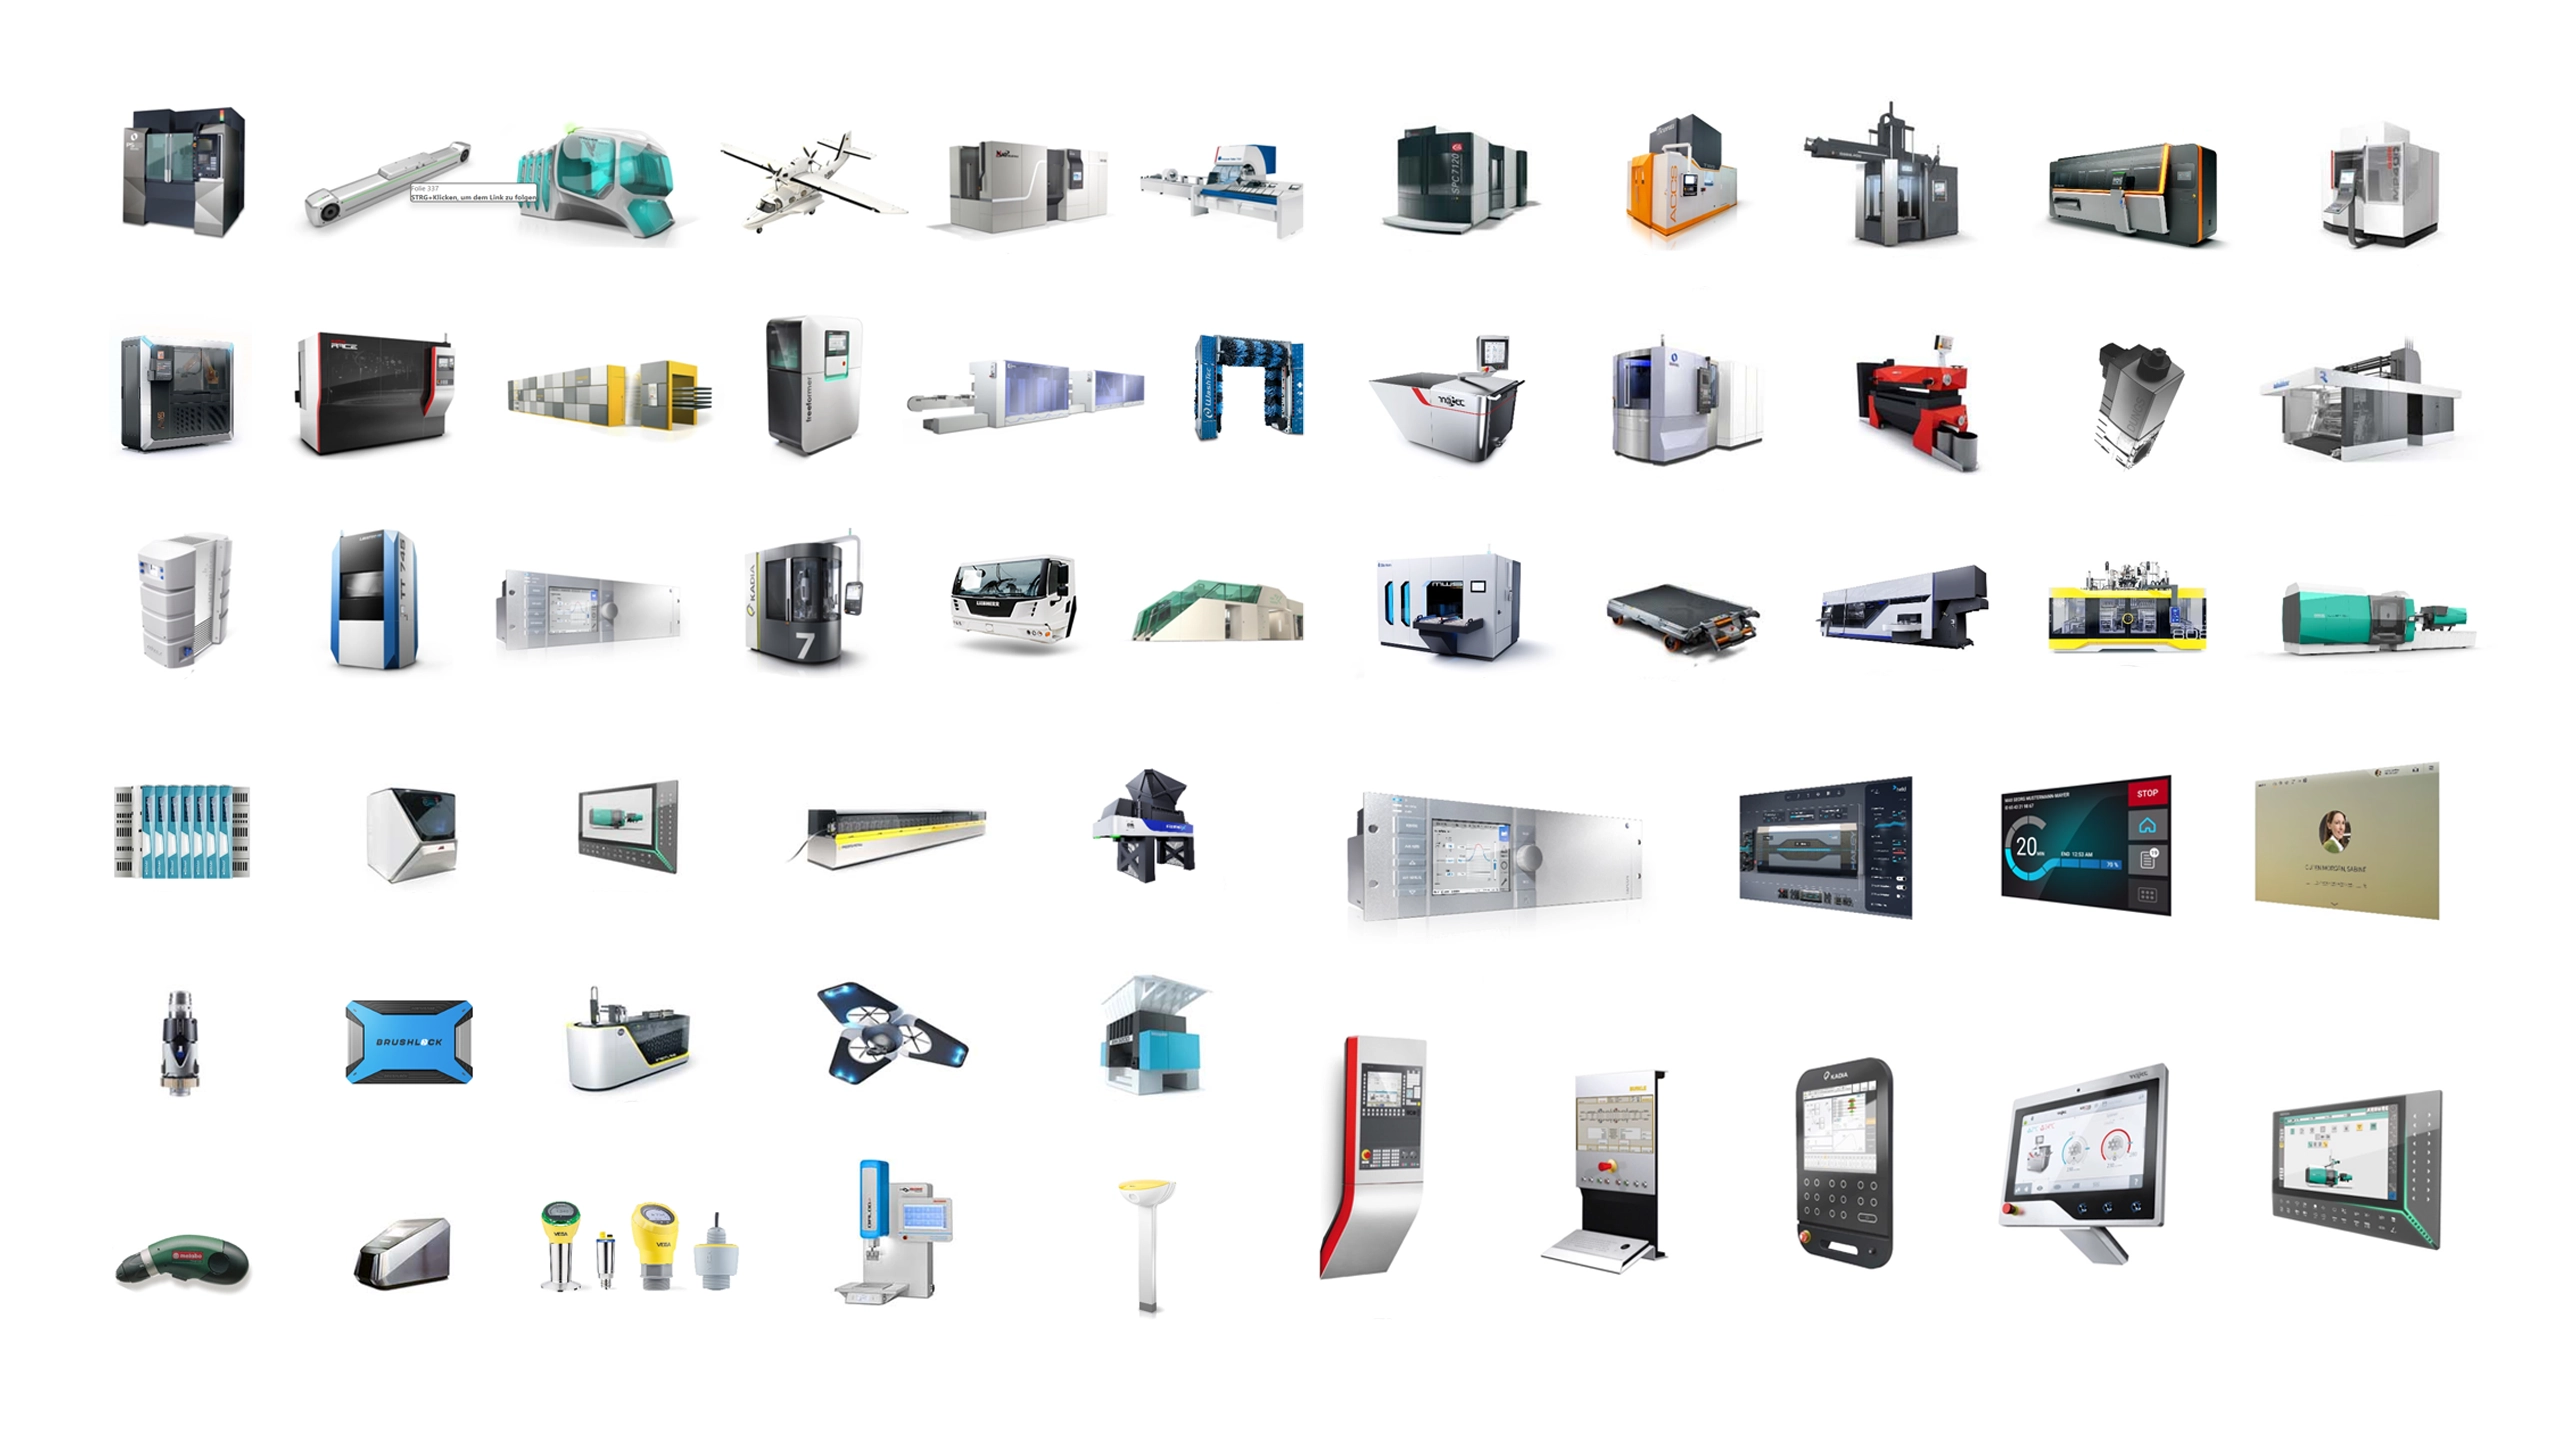
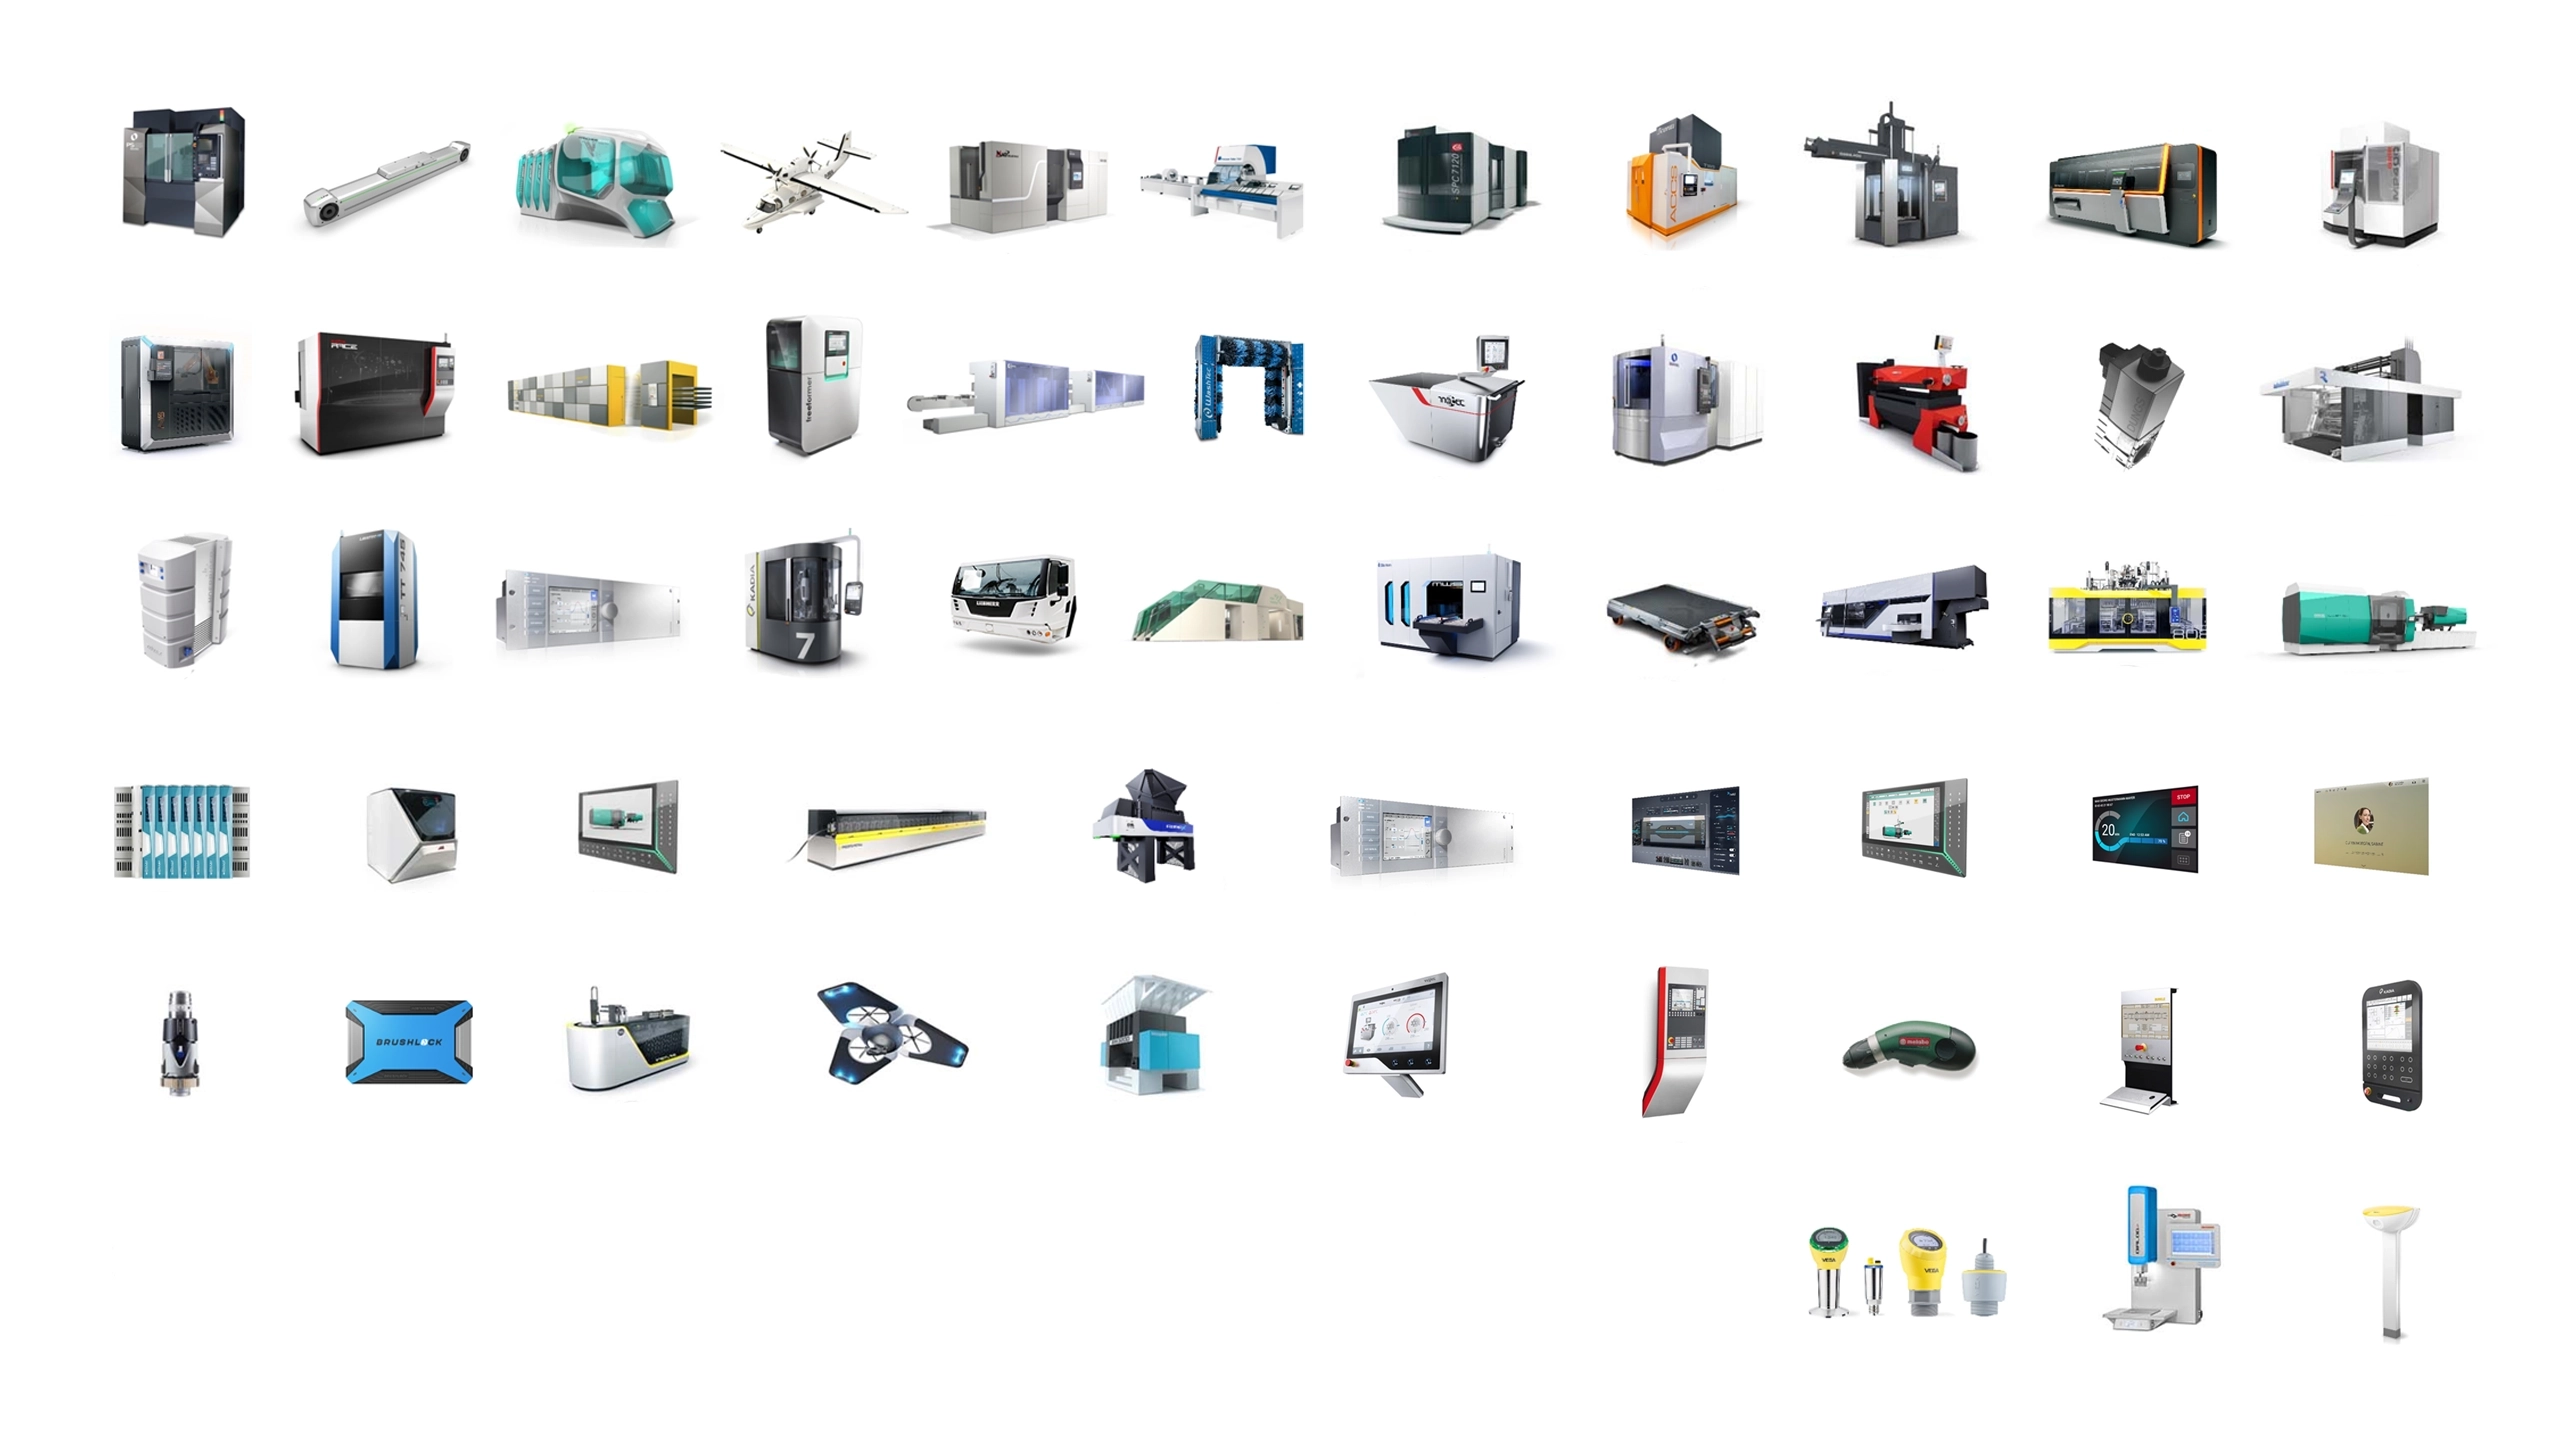
Refactor Clients component to use responsive images and remove unused ClientsAlternative component

diff --git a/src/components/Clients.tsx b/src/components/Clients.tsx
@@ -1,87 +1,48 @@
 "use client";
 
-import { useRef } from "react";
+import { useState, useEffect } from "react";
 import Image from "next/image";
 import gsap from "gsap";
-import { useGSAP } from "@gsap/react";
 import ScrollTrigger from "gsap/ScrollTrigger";
 
 gsap.registerPlugin(ScrollTrigger);
 
 export function Clients() {
-  const sectionRef = useRef<HTMLElement>(null);
-  const textRef = useRef<HTMLParagraphElement>(null);
+  const [isMobile, setIsMobile] = useState(false);
 
-  const clients = [
-    { logo: "/logos/logo-woehner-grey.svg", website: "https://www.woehner.de/de/" },
-    { logo: "/logos/logo-arburg-grey.svg", website: "https://www.arburg.com/de/de/" },
-    { logo: "/logos/logo-washtec-grey.svg", website: "https://www.washtec.de/" },
-    { logo: "/logos/logo-liebherr-grey.svg", website: "https://www.liebherr.com/de-de/firmengruppe/startseite-3705202" },
-    { logo: "/logos/logo-trumpf-grey.svg", website: "https://www.trumpf.com/de_DE/" },
-    { logo: "/logos/logo-sew-eurodrive-grey.svg", website: "https://www.sew-eurodrive.de/startseite.html" },
-    { logo: "/logos/logo-kuka-grey.svg", website: "https://www.kuka.com/de-de" },
-    { logo: "/logos/logo-waldrichsiegen-grey.svg", website: "https://www.waldrichsiegen.de/" },
-    { logo: "/logos/logo-imagasti-grey.svg", website: "https://ima.it/foodanddairy/machine/combiseptic/" },
-  ];
+  useEffect(() => {
+    const mediaQuery = window.matchMedia("(max-width: 768px)");
 
-  useGSAP(() => {
-    if (!textRef.current || !sectionRef.current) return;
+    // Initiale Prüfung
+    setIsMobile(mediaQuery.matches);
 
-    gsap.from(textRef.current, {
-      opacity: 0,
-      y: 0,
-      duration: 1.2,
-      scrollTrigger: {
-        trigger: sectionRef.current,
-        start: "top center",
-        end: "center center",
-        scrub: 1,
-      },
-    });
+    // Aktualisierung bei Veränderung der Bildschirmgröße
+    const handleResize = (e: MediaQueryListEvent) => {
+      setIsMobile(e.matches);
+    };
+
+    mediaQuery.addEventListener("change", handleResize);
+
+    return () => {
+      mediaQuery.removeEventListener("change", handleResize);
+    };
   }, []);
 
   return (
-    <section ref={sectionRef} data-background="light" className="bg-white relative min-h-screen w-full">
-      <div className="absolute inset-0 flex flex-col justify-start mt-20">
+    <section className="relative min-h-screen w-full">
+      <Image
+        src={isMobile ? "/pictures/clients-projects-mobile.webp" : "/pictures/clients-projects.webp"} // Dynamisch je nach Bildschirmgröße
+        alt="Fullscreen Background"
+        layout="fill"
+        objectFit="cover"
+        priority
+      />
+      
+      <div className="absolute inset-0 flex flex-col justify-end mb-20">
         <p className="mb-4 w-full px-8 md:px-16 lg:px-24 text-gray-900 text-[5vw] md:text-[4vw] xl:text-[3vw] leading-tight tracking-[-0.02em]">
           Diese <b>Marktführer</b> vertrauen auf unser Design
         </p>
       </div>
-      
-      <div className="absolute inset-0 flex items-center justify-center">
-        <div className="w-full px-8 md:px-16 lg:px-24">
-          <div className="clients-container grid grid-cols-1 sm:grid-cols-2 md:grid-cols-3 gap-x-2 sm:gap-x-4 md:gap-x-6 gap-y-6 mt-10">
-            {clients.map((client, index) => (
-              <div
-                key={index}
-                className="client-logo p-10 flex justify-center items-center rounded-lg transition-all duration-300 ease-in-out"
-              >
-                <a
-                  href={client.website}
-                  target="_blank"
-                  rel="noopener noreferrer"
-                  className="flex justify-center items-center"
-                >
-                  <Image
-                    src={client.logo}
-                    alt={`Logo von ${client.website}`}
-                    width={250}
-                    height={100}
-                    className="max-w-[180px] sm:max-w-[140px] md:max-w-[180
-                  px] object-contain transition-all duration-300 ease-in-out"
-                  />
-                </a>
-              </div>
-            ))}
-          </div>
-        </div>
-      </div>
-
-      <style jsx>{`
-        .client-logo:hover img {
-          filter: invert(1) sepia(1) saturate(5) hue-rotate(180deg);
-        }
-      `}</style>
     </section>
   );
 }

diff --git a/src/components/ClientsAlternative.tsx b/src/components/ClientsAlternative.tsx
@@ -3,31 +3,85 @@
 import { useRef } from "react";
 import Image from "next/image";
 import gsap from "gsap";
-
+import { useGSAP } from "@gsap/react";
 import ScrollTrigger from "gsap/ScrollTrigger";
 
 gsap.registerPlugin(ScrollTrigger);
 
 export function ClientsAlternative() {
   const sectionRef = useRef<HTMLElement>(null);
+  const textRef = useRef<HTMLParagraphElement>(null);
 
+  const clients = [
+    { logo: "/logos/logo-woehner-grey.svg", website: "https://www.woehner.de/de/" },
+    { logo: "/logos/logo-arburg-grey.svg", website: "https://www.arburg.com/de/de/" },
+    { logo: "/logos/logo-washtec-grey.svg", website: "https://www.washtec.de/" },
+    { logo: "/logos/logo-liebherr-grey.svg", website: "https://www.liebherr.com/de-de/firmengruppe/startseite-3705202" },
+    { logo: "/logos/logo-trumpf-grey.svg", website: "https://www.trumpf.com/de_DE/" },
+    { logo: "/logos/logo-sew-eurodrive-grey.svg", website: "https://www.sew-eurodrive.de/startseite.html" },
+    { logo: "/logos/logo-kuka-grey.svg", website: "https://www.kuka.com/de-de" },
+    { logo: "/logos/logo-waldrichsiegen-grey.svg", website: "https://www.waldrichsiegen.de/" },
+    { logo: "/logos/logo-imagasti-grey.svg", website: "https://ima.it/foodanddairy/machine/combiseptic/" },
+  ];
 
+  useGSAP(() => {
+    if (!textRef.current || !sectionRef.current) return;
+
+    gsap.from(textRef.current, {
+      opacity: 0,
+      y: 0,
+      duration: 1.2,
+      scrollTrigger: {
+        trigger: sectionRef.current,
+        start: "top center",
+        end: "center center",
+        scrub: 1,
+      },
+    });
+  }, []);
 
   return (
-    <section ref={sectionRef} className="relative min-h-screen w-full">
-      <Image
-        src="/pictures/clients-projects_2.webp" // Ersetze mit dem tatsächlichen Bildpfad
-        alt="Fullscreen Background"
-        layout="fill"
-        objectFit="cover"
-        priority
-      />
-      
-      <div className="absolute inset-0 flex flex-col justify-end mb-20">
+    <section ref={sectionRef} data-background="light" className="bg-white relative min-h-screen w-full">
+      <div className="absolute inset-0 flex flex-col justify-start mt-20">
         <p className="mb-4 w-full px-8 md:px-16 lg:px-24 text-gray-900 text-[5vw] md:text-[4vw] xl:text-[3vw] leading-tight tracking-[-0.02em]">
           Diese <b>Marktführer</b> vertrauen auf unser Design
         </p>
       </div>
+      
+      <div className="absolute inset-0 flex items-center justify-center">
+        <div className="w-full px-8 md:px-16 lg:px-24">
+          <div className="clients-container grid grid-cols-1 sm:grid-cols-2 md:grid-cols-3 gap-x-2 sm:gap-x-4 md:gap-x-6 gap-y-6 mt-10">
+            {clients.map((client, index) => (
+              <div
+                key={index}
+                className="client-logo p-10 flex justify-center items-center rounded-lg transition-all duration-300 ease-in-out"
+              >
+                <a
+                  href={client.website}
+                  target="_blank"
+                  rel="noopener noreferrer"
+                  className="flex justify-center items-center"
+                >
+                  <Image
+                    src={client.logo}
+                    alt={`Logo von ${client.website}`}
+                    width={250}
+                    height={100}
+                    className="max-w-[180px] sm:max-w-[140px] md:max-w-[180
+                  px] object-contain transition-all duration-300 ease-in-out"
+                  />
+                </a>
+              </div>
+            ))}
+          </div>
+        </div>
+      </div>
+
+      <style jsx>{`
+        .client-logo:hover img {
+          filter: invert(1) sepia(1) saturate(5) hue-rotate(180deg);
+        }
+      `}</style>
     </section>
   );
 }

diff --git a/src/components/ContactJob.tsx b/src/components/ContactJob.tsx
@@ -39,15 +39,15 @@ export function ContactJob() {
       <div className="w-full md:w-1/2 flex items-center justify-start p-8 h-[50vh] md:h-full">
         <div
           ref={contentRef}
-          className="max-w-[65vw] mx-auto px-8 md:px-16 lg:px-24 space-y-6"
+          className="max-w-[65vw] mx-auto px-8 md:px-16 lg:px-24 space-y-3"
         >
           {/* Title */}
-          <h2 className="text-gray-900 z-10 text-2xl md:text-3xl xl:text-4xl mb-6">
+          <h2 className="text-gray-900 z-10 text-[4vw] md:text-[3vw] xl:text-[2vw]">
             Ihr Kontakt
           </h2>
           {/* Subtitle */}
-          <p className="text-gray-900 text-[5vw] md:text-[4vw] xl:text-[3vw] leading-tight tracking-[-0.02em] mb-12">
-            LISA SCHMID
+          <p className="text-gray-900 text-[5vw] md:text-[4vw] xl:text-[3vw] leading-tight tracking-[-0.02em]">
+            LISA&nbsp;VALENTINA&nbsp;SCHMID
           </p>
 
           {/* Button */}

diff --git a/src/app/designtech/page.tsx b/src/app/designtech/page.tsx
@@ -5,11 +5,10 @@ import React from 'react';
 import { HeroDesignTech } from "@/components/HeroDesignTech";
 import { Footer } from "@/components/Footer";
 import { AboutDesignTech } from '@/components/AboutDesignTech';
-import { Clients } from '@/components/Clients';
 import { Awards } from '@/components/Awards';
 import { ClosingKarriere } from '@/components/ClosingKarriere';
 import { Industries } from '@/components/Industries';
-import { ClientsAlternative } from '@/components/ClientsAlternative';
+import { Clients } from '@/components/Clients';
 
 
 
@@ -19,9 +18,8 @@ export default function DesignTechPage() {
           
           <HeroDesignTech />
           <AboutDesignTech />
-          <Clients />
           <Awards />
-          <ClientsAlternative />
+          <Clients />
           <ClosingKarriere/>
           <Industries />
           <Footer />
